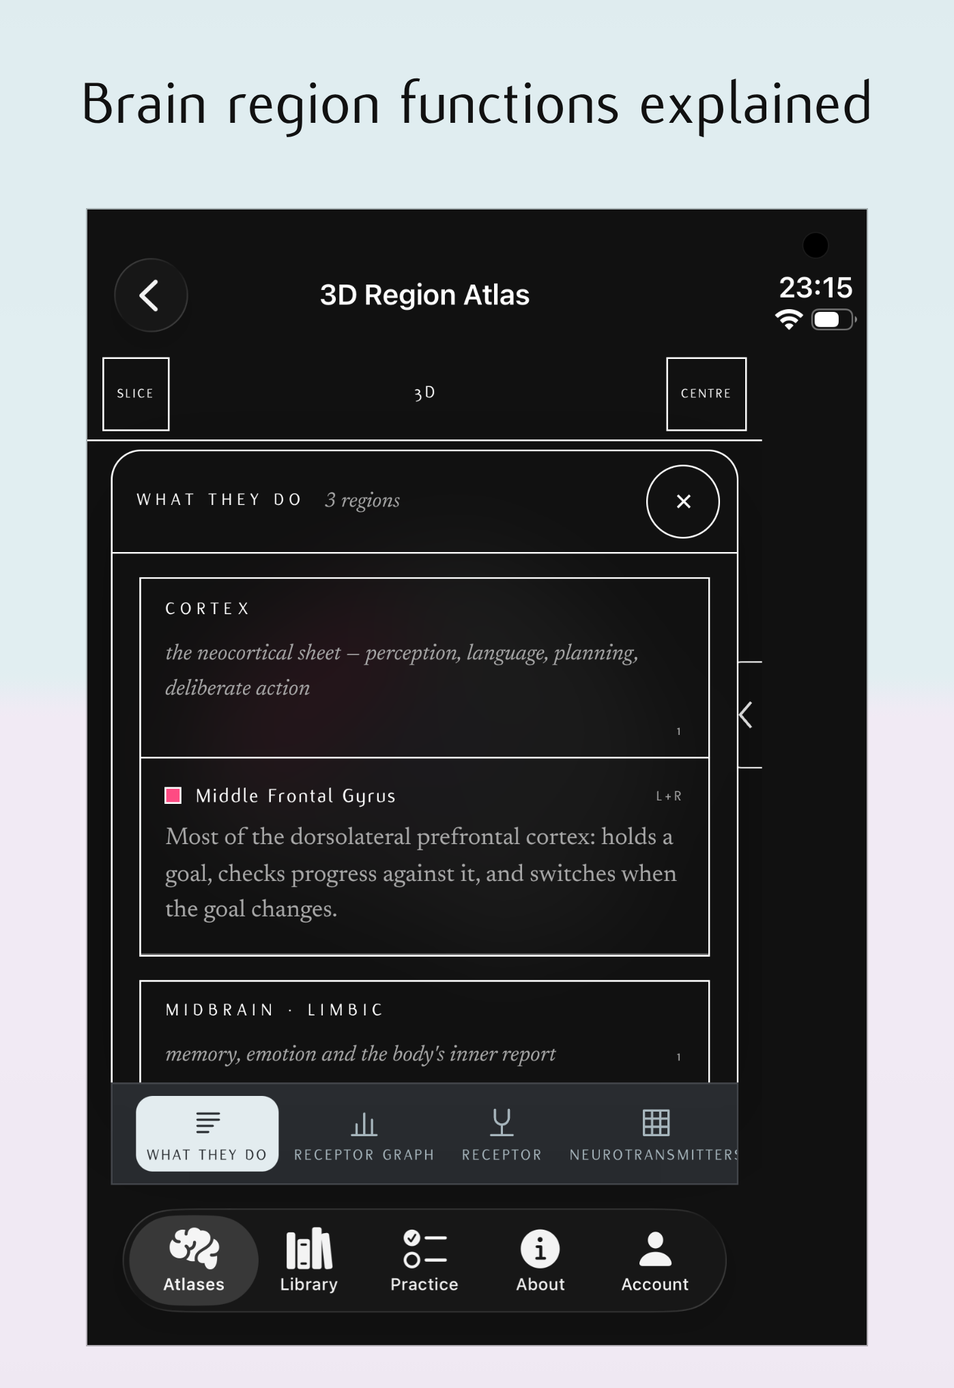
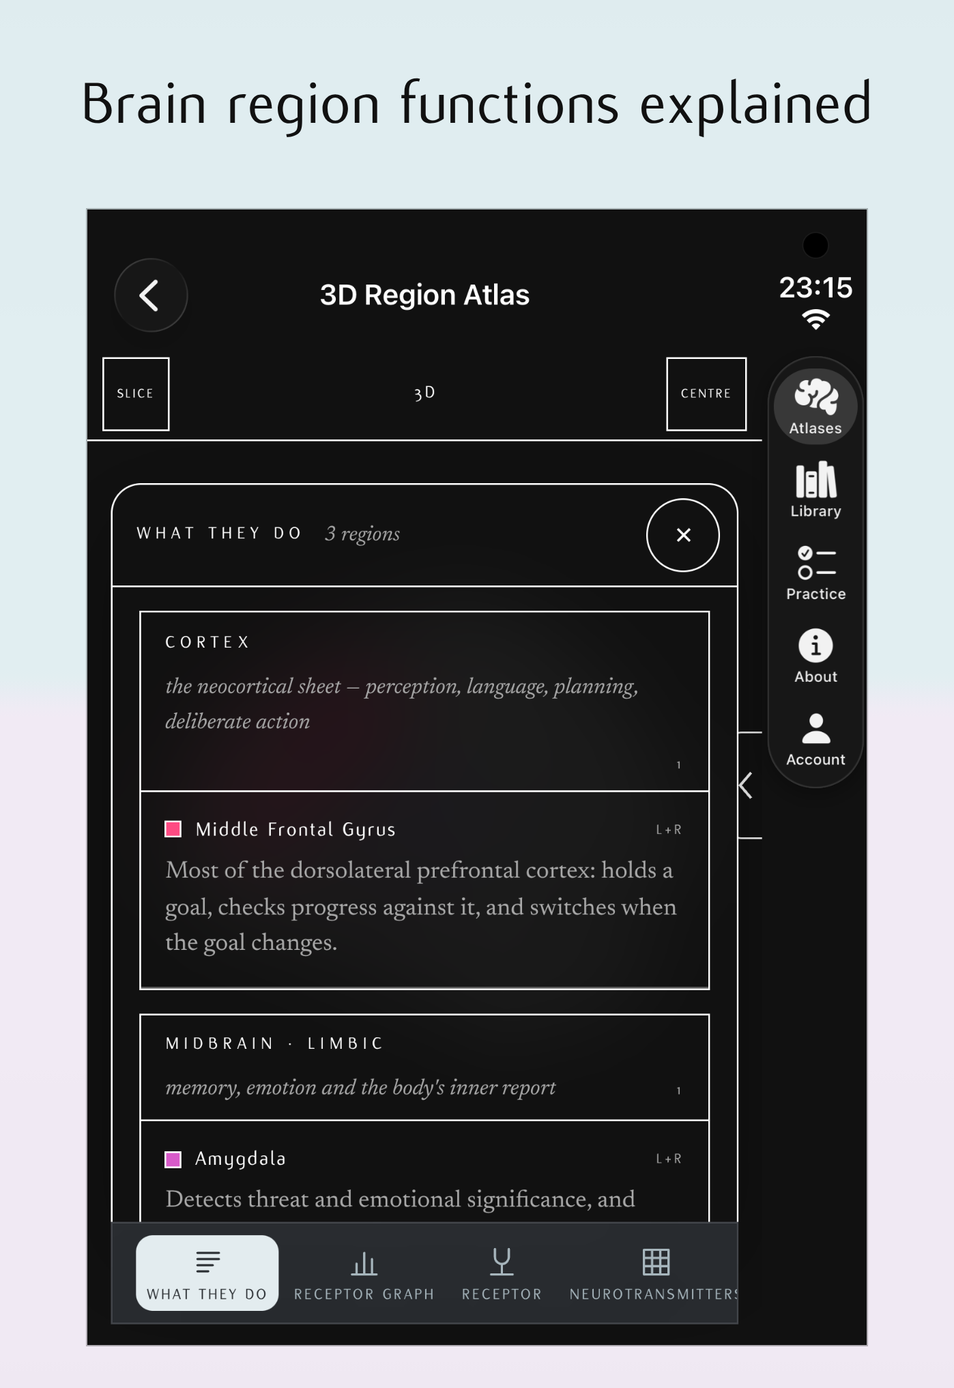
Stand the tabs in the Duo's side column in the store images, as Apple pictures the Duo
The iPhone Duo images now show the app as Apple's own pictures of the
Duo show apps built with the iOS 27.1 SDK: on both displays the column
down the right edge holds the camera, the time and the Wi-Fi, and under
them the five tabs stood on end, while the page's own bar keeps the foot
and has the whole height to itself. Closed, the iPhone's bar with Back
and the title stays at the top; open, the iPad's bar with Back alone.
The handover, the listing notes and the ledger say so.

Changed region(s): [[0.0923, 0.5575, 0.7997, 0.9602], [0.123, 0.3097, 0.769, 0.5265], [0.7997, 0.2168, 0.9227, 0.5575]]

diff --git a/app/scripts/remake-store-images.js b/app/scripts/remake-store-images.js
@@ -11,18 +11,19 @@
    sideways at 2853×2007 (open-01 to open-10), each rendered at the Duo's
    own web view, as the pages lay themselves out there (closed, one view at
    a time, the 3D Region Atlas its 3D view alone; open, as on an iPad),
-   under the app's bar and, closed, over its tab bar, with the status in a
-   column down the right edge, where Apple puts the Duo's (the app's content
-   stands to the left of the status bar and camera). Since v12.27, at the
-   owner's word, the bars are the iPhone's and the iPad's own, where they
-   always stand: closed, the iPhone's bar with Back at the top left and the
-   page's title, cut from the iPhone strips below their status rows, and the
-   iPhone's tab bar at the foot (duoTop(), the closed app area being the
-   iPhone's own width); open, the iPad's bar with Back at the left and the
-   island of tabs in the middle, cut from the iPad strips and set at the
-   Duo's scale. The column holds the camera and the status alone, drawn from
-   the iPhone captures' pieces (column()); no Duo capture exists yet, so
-   nothing here is a copy of one. The captures came from the owner's
+   under the app's bar, with a column down the right edge where Apple puts
+   the Duo's status bar and camera and, for an app built with the iOS 27.1
+   SDK, its tab bar and toolbars, stood on end below the status. Since
+   v12.29, at the owner's word and after Apple's own pictures of the Duo,
+   the column holds the camera, the time and the Wi-Fi, then the tab bar
+   stood on end, a capsule of the five tabs with the page's own lit
+   (column()), and the page has the whole height beneath the app's bar, its
+   own bar at the foot; the app's bar is the iPhone's closed, Back at the
+   top left and the page's title, cut from the iPhone strip below its status
+   rows, and the iPad's open, Back alone at the left, cut from the iPad strip
+   (duoTop()). Everything is drawn from the iPhone and iPad captures'
+   pieces; no Duo capture exists yet, so nothing here is a copy of one.
+   The captures came from the owner's
    devices, an 11-inch iPad sideways and an iPhone 16 Pro, on 23 October
    2026; since v12.10 they are remade here whenever the pages change, so
    the images keep up without a device: each page is rendered as the app
@@ -75,18 +76,18 @@ const only = process.argv.slice(2);
 /* the devices: the web view in CSS pixels, its scale, and where its rows
    sit in the capture. The iPhone Duo (v12.23) has no capture yet: closed,
    its outer display is 466 by 678 points, and the app has the 402 left of
-   the column down the right edge where the Duo stands the status bar and
-   the camera, under the iPhone's bar (83 points: a 20-point inset and the
-   bar's own row) and over its tab bar (83); open and sideways its inner
-   display is 951 by 669, the app the 887 left of the same column, laid out
-   as on an iPad under the iPad's bar (86). The column is drawn from the
-   iPhone's own pieces (column() below), the bars from the captures' strips
-   (duoTop()), and the screen's size is the page's own measure of a squat
-   phone */
+   the column down the right edge where the Duo stands the status bar, the
+   camera and the tab bar, under the iPhone's bar (83 points: a 20-point
+   inset and the bar's own row) and down to the foot; open and sideways its
+   inner display is 951 by 669, the app the 887 left of the same column,
+   laid out as on an iPad under the iPad's bar (86). The column is drawn
+   from the iPhone's own pieces (column() below), the bars from the
+   captures' strips (duoTop()), and the screen's size is the page's own
+   measure of a squat phone */
 const DEV = {
   ipad:    { w: 1210, h: 748, dpr: 2, pad: true,  top: 172, capture: [2420, 1668], families: ['ipad-13-land'] },
   iphone:  { w: 402,  h: 675, dpr: 3, pad: false, top: 348, bottom: 2373, capture: [1206, 2622], families: ['iphone-6.3', 'iphone-6.9'] },
-  duo:     { w: 402,  h: 512, dpr: 3, pad: false, screen: [466, 678], column: 'outer', top: 249, bottom: 1785, capture: [1398, 2034], families: ['iphone-duo'] },
+  duo:     { w: 402,  h: 595, dpr: 3, pad: false, screen: [466, 678], column: 'outer', top: 249, capture: [1398, 2034], families: ['iphone-duo'] },
   duoOpen: { w: 887,  h: 583, dpr: 3, pad: true,  screen: [951, 669], column: 'inner', top: 258, capture: [2853, 2007], families: ['iphone-duo-land'] },
 };
 
@@ -220,11 +221,11 @@ const SHOTS = [
 /* the iPhone Duo (v12.23): open, the iPad's ten at the inner display's size,
    the page laid out as on an iPad under the iPad's own bar (the strip the
    iPad shot names); closed, the iPhone's ten as the outer display shows
-   them, one view at a time, under the iPhone's bar and over its tab bar
-   (the strips the iPhone shot of the same picture names; the two capture
-   shots and the light one take the atlas's), the atlas's opening shot the
-   3D view with the three regions lit, and the last the Atlases page in
-   light mode, the light shot of the iPad's */
+   them, one view at a time, under the iPhone's bar (the strip the iPhone
+   shot of the same picture names; the two capture shots and the light one
+   take the atlas's), the tabs stood on end in the column, the atlas's
+   opening shot the 3D view with the three regions lit, and the last the
+   Atlases page in light mode, the light shot of the iPad's */
 const TAB = { '06-microanatomy.png': 'atlases', '07-molecular.png': 'atlases', '10-hallucinations.png': 'library', '08-practice.png': 'practice', '11-mcp.png': 'about' };
 for (const s of SHOTS.filter(x => x.dev === 'ipad'))
   SHOTS.push(Object.assign({}, s, { name: s.name.replace('ipad', 'open'), dev: 'duoOpen', tab: TAB[s.out] || 'atlases' }));
@@ -239,13 +240,10 @@ SHOTS.push(
   { name: 'duo-07', dev: 'duo', theme: 'dark', url: 'hallucinations.html', ready: hxReady, setup: click('.panelbar [data-pop="popCircuit"]', 1800), out: '10-hallucinations.png', statement: PHONE_SAID['10-hallucinations.png'] },
   { name: 'duo-08', dev: 'duo', theme: 'dark', url: 'practice.html', ready: pageReady, setup: question('A central ethical advantage of iPSCs'), out: '08-practice.png', statement: PHONE_SAID['08-practice.png'] },
   { name: 'duo-09', dev: 'duo', theme: 'light', url: 'regions.html#sel=' + enc(SEL_PH), ready: atlasReady, out: '02-atlas-light.png', statement: 'Light mode' },
-  { name: 'duo-10', dev: 'duo', theme: 'dark', url: 'mcp.html', ready: pageReady, fade: 30, out: '11-mcp.png', statement: PHONE_SAID['11-mcp.png'] },
+  { name: 'duo-10', dev: 'duo', theme: 'dark', url: 'mcp.html', ready: pageReady, out: '11-mcp.png', statement: PHONE_SAID['11-mcp.png'] },
 );
 const PHONE = Object.fromEntries(SHOTS.filter(x => x.dev === 'iphone' && x.top).map(x => [x.out, x]));
-for (const s of SHOTS) if (s.dev === 'duo'){
-  const p = PHONE[s.out];
-  s.top = p ? p.top : 'iphone-top-dark-3d-region-atlas'; s.bottom = p ? p.bottom : 'iphone-bottom-dark-atlases';
-}
+for (const s of SHOTS) if (s.dev === 'duo') s.top = PHONE[s.out] ? PHONE[s.out].top : 'iphone-top-dark-3d-region-atlas';
 
 /* the page as the shell shows it */
 const shell = (o) => {
@@ -274,25 +272,38 @@ const blendFor = light => light ? 'filter:invert(1);mix-blend-mode:multiply' : '
 const glassFor = light => light ? 'background:rgba(255,255,255,.94);box-shadow:inset 0 0 0 1px rgba(0,0,0,.07),0 8px 34px rgba(0,0,0,.13)'
                                : 'background:#171717;box-shadow:inset 0 0 0 1px #383838,inset 0 0 0 2px #2F2F2F,inset 0 0 0 3px #262626,0 10px 40px rgba(0,0,0,.35)';
 
-/* the Duo's column down the right edge (v12.23), in the theme's paper: the
-   outer display's camera at its top and the status (the time, the Wi-Fi and
-   the battery), which Apple stands there on both displays; nothing else
-   since v12.27. The time and the status icons are cut from the owner's
-   iPhone captures and levelled to masks */
+/* the Duo's column down the right edge (v12.23), in the theme's paper, as
+   Apple pictures the Duo's on both displays: the camera at its top, the
+   status below it (the time and the Wi-Fi, as Apple's pictures show them)
+   and under them the tab bar stood on end, a capsule of the five tabs with
+   the page's own lit, where the iOS 27.1 SDK stands an app's tab bar
+   (v12.29, at the owner's word; v12.27 had kept the tabs at the foot). The
+   time, the Wi-Fi and the tabs' icons and names are cut from the owner's
+   iPhone captures and levelled to masks, light on black, so they sit on
+   any ground (screened on the dark, inverted and multiplied on the light);
+   the glass is drawn as the captures show it, the dark in the capsule's
+   grey with its three-step rim */
+const TABS = ['atlases', 'library', 'practice', 'about', 'account'], TAB_X = { atlases: 190, library: 396, practice: 602, about: 810, account: 1015 };
 function column(d, shot, work){
   const x0 = d.w * d.dpr, [W, H] = d.capture, cw = W - x0, light = shot.theme === 'light';
   const top = path.join(CHROME, 'iphone-top-dark-3d-region-atlas.png');
   /* the pieces: [box in the strip, the ground's share of white] */
-  const time = cut(work, top, '129x38+131+79', 'time', 7), wifi = cut(work, top, '51x37+945+79', 'wifi', 7), battery = cut(work, top, '82x39+1018+78', 'battery', 7);
-  const blend = blendFor(light), paper = light ? '#FFFFFF' : '#111111';
+  const time = cut(work, top, '129x38+131+79', 'time', 7), wifi = cut(work, top, '51x37+945+79', 'wifi', 7);
+  /* each tab unlit: Atlases from the capture with Library lit, the rest from the one with Atlases lit; the
+     window keeps clear of the capsule's round ends and of the lit tab's pill */
+  const item = n => cut(work, path.join(CHROME, n === 'atlases' ? 'iphone-bottom-dark-library.png' : 'iphone-bottom-dark-atlases.png'), '140x156+' + (TAB_X[n] - 70) + '+14', 'tab-' + n, 9.5);
+  const blend = blendFor(light), paper = light ? '#FFFFFF' : '#111111', glass = glassFor(light);
   const at = (l, tp, w, h, extra) => `position:absolute;left:${px(x0 + l)};top:${px(tp)};width:${px(w)};height:${px(h)};${extra || ''}`;
   const mid = w => Math.round((cw - w) / 2);
-  const outer = d.column === 'outer', y = outer ? { time: 120, icons: 178 } : { time: 40, icons: 98 };
   const L = [`<div style="${at(0, 0, cw, H, 'background:' + paper)}"></div>`];
-  if (outer) L.push(`<div style="${at(mid(44), 42, 44, 44, 'border-radius:50%;background:#000;box-shadow:0 0 0 2px ' + (light ? '#D8D8D8' : '#1C1C1C'))}"></div>`);
-  L.push(`<img src="${time}" style="${at(mid(129), y.time, 129, 38, blend)}">`);
-  L.push(`<img src="${wifi}" style="${at(mid(147), y.icons, 51, 37, blend)}">`);
-  L.push(`<img src="${battery}" style="${at(mid(147) + 65, y.icons - 1, 82, 39, blend)}">`);
+  L.push(`<div style="${at(mid(44), 42, 44, 44, 'border-radius:50%;background:#000;box-shadow:0 0 0 2px ' + (light ? '#D8D8D8' : '#1C1C1C'))}"></div>`);
+  L.push(`<img src="${time}" style="${at(mid(129), 120, 129, 38, blend)}">`);
+  L.push(`<img src="${wifi}" style="${at(mid(51), 178, 51, 37, blend)}">`);
+  const capW = 172, cell = 148, pad = 16, capH = cell * TABS.length + 2 * pad, capTop = 262;
+  L.push(`<div style="${at(mid(capW), capTop, capW, capH, 'border-radius:' + px(capW / 2) + ';' + glass)}"></div>`);
+  const lit = TABS.indexOf(shot.tab || 'atlases');
+  L.push(`<div style="${at(mid(150), capTop + pad + lit * cell + (cell - 136) / 2, 150, 136, 'border-radius:68px;background:' + (light ? '#EBEBEB' : '#383838'))}"></div>`);
+  TABS.forEach((n, i) => L.push(`<img src="${item(n)}" style="${at(mid(123), capTop + pad + i * cell + (cell - 137) / 2, 123, 137, blend)}">`));
   return L;
 }
 
@@ -304,9 +315,10 @@ function column(d, shot, work){
    page shows, is drawn from the dark one's pieces as masks on white, with
    the glass circle as the captures show it. Open, the iPad's: the strip's
    own ground (its one blank column stretched across, so the bar keeps the
-   capture's shading), Back at the left and the island of tabs in the middle
-   of the app's width, each cut from the iPad strip the shot names and set
-   at the Duo's scale, three halves of the iPad's two */
+   capture's shading) and Back at the left, cut from the iPad strip the shot
+   names and set at the Duo's scale, three halves of the iPad's two; the
+   island of tabs is not here since v12.29, the tabs standing in the column
+   on both displays */
 const TITLE = { 'iphone-top-dark-3d-region-atlas': '373x49+417+230' };
 function duoTop(d, shot, work){
   const aw = d.w * d.dpr, light = shot.theme === 'light', strip = path.join(CHROME, shot.top + '.png');
@@ -327,35 +339,11 @@ function duoTop(d, shot, work){
     const k = 1.5;
     /* the column at 520 stands between the status text and the island in every strip, where nothing is drawn */
     L.push(`<img src="${cut(work, strip, '1x172+520+0', 'ground-' + shot.top)}" style="${at(0, 0, aw, d.top)}">`);
-    /* each piece's window reaches out to where the glass's shadow has faded into the ground, so no edge shows:
-       Back's below the status text, the island's the whole height, between the status text and its icons */
+    /* Back's window reaches out, below the status text, to where the glass's shadow has faded into the ground, and
+       its top edge is softened, so no edge shows; the island is not here, the tabs standing in the column */
     const soft = 'mask-image:linear-gradient(rgba(0,0,0,0),#000 36px);-webkit-mask-image:linear-gradient(rgba(0,0,0,0),#000 36px)';
     L.push(`<img src="${cut(work, strip, '260x128+0+44', 'back-' + shot.top)}" style="${at(0, Math.round(44 * k), 260 * k, 128 * k, soft)}">`);
-    L.push(`<img src="${cut(work, strip, '1140x172+600+0', 'island-' + shot.top)}" style="${at(Math.round((aw - 1140 * k) / 2), 0, 1140 * k, 172 * k)}">`);
   }
-  return L;
-}
-
-/* the iPhone's tab bar in the light theme, for the closed Duo's light shot:
-   no light capture of a pushed page exists, and the light capture of the
-   Atlases tab shows that page through the bar's glass, so the bar is drawn
-   as the dark strips measure it, on white: the capsule (1080 by 186 from
-   63, its rim as the captures show it), the lit tab's pill (234 by 162
-   about the tab's centre) and the five tabs' icons and names as masks cut
-   from the dark strips, inverted (each tab unlit: Atlases from the strip
-   with Library lit, the rest from the one with Atlases lit) */
-const TABS = ['atlases', 'library', 'practice', 'about', 'account'], TAB_X = { atlases: 190, library: 396, practice: 602, about: 810, account: 1015 };
-function tabsLight(d, shot, work){
-  const blend = blendFor(true);
-  const at = (l, tp, w, h, extra) => `position:absolute;left:${px(l)};top:${px(d.bottom + tp)};width:${px(w)};height:${px(h)};${extra || ''}`;
-  const L = [`<div style="${at(0, 0, 1206, 249, 'background:#FFFFFF')}"></div>`];
-  L.push(`<div style="${at(63, 0, 1080, 186, 'border-radius:93px;' + glassFor(true))}"></div>`);
-  const lit = TAB_X[shot.tab || 'atlases'];
-  L.push(`<div style="${at(lit - 117, 11, 234, 162, 'border-radius:81px;background:#EBEBEB')}"></div>`);
-  TABS.forEach(n => {
-    const strip = path.join(CHROME, n === 'atlases' ? 'iphone-bottom-dark-library.png' : 'iphone-bottom-dark-atlases.png');
-    L.push(`<img src="${cut(work, strip, '140x156+' + (TAB_X[n] - 70) + '+14', 'tab-' + n, 9.5)}" style="${at(TAB_X[n] - 70, 14, 140, 156, blend)}">`);
-  });
   return L;
 }
 
@@ -366,12 +354,6 @@ async function join(browser, shot, renderPath, outPath, work){
   if (d.column){
     layers.push(...duoTop(d, shot, work));
     layers.push(`<img src="${dataUrl(renderPath)}" style="left:0;top:${px(d.top)}">`);
-    if (shot.fade) layers.push(`<div style="position:absolute;left:0;top:${px(d.bottom - shot.fade * d.dpr)};width:${px(d.w * d.dpr)};height:${px(shot.fade * d.dpr)};background:linear-gradient(rgba(17,17,17,0),#111111 60%)"></div>`);
-    /* closed, the iPhone's tab bar at the foot: the strip the shot names, or drawn in the light theme */
-    if (d.bottom){
-      if (shot.theme === 'light') layers.push(...tabsLight(d, shot, work));
-      else layers.push(`<img src="${dataUrl(path.join(CHROME, shot.bottom + '.png'))}" style="left:0;top:${px(d.bottom)}">`);
-    }
     layers.push(...column(d, shot, work));
   } else if (shot.capture){
     layers.push(`<img src="${dataUrl(path.join(CHROME, shot.capture + '.png'))}" style="left:0;top:0">`);

diff --git a/CLAUDE.md b/CLAUDE.md
@@ -549,15 +549,14 @@ Read this first in every session. It is the handover; nothing else needs pasting
   view buttons hidden too (`.screen.one.short .panelbar-views` in `regions.html`; v12.27, at the owner's word: the
   screen is too short for the flat slices). Everything else is the phone's: the bar at the foot, the drawer, the
   sheets, the Brodmann Area Atlas and the molecular viewer as on any iPhone upright, and the shell's bars where iOS
-  puts them, Back at the top left and the tabs at the foot, the Duo keeping only its status bar and camera in a column
-  down the right edge, which Apple's Duo page describes (v12.23 to v12.26 stood the page's bar down the right edge
-  beside it, one bar too many). `oneView` runs on every resize on those three pages, since the Duo's screen changes
-  under a page as it opens and closes while neither media query need change, and acts only when the layout does
-  (`laid`); Tractography and Microanatomy, with one view, read nothing from the screen. Open, the Duo is an iPad (the
-  shell above): upright its inner display is 669 wide, an iPad mini's layout (`.one`, the four views two by two), and
-  sideways 887, the iPad's, the page's bar at the foot and, in the store images, the iPad's bar of Back and the tabs
-  across the top; where iOS itself puts the tab bar on the open Duo is iOS's to decide, and a build with the iOS 27.1
-  SDK would stand it down the side under the status.
+  puts them (v12.23 to v12.26 stood the page's bar down the right edge, one bar too many). The Duo itself keeps its
+  status bar and camera in a column down the right edge of both displays, and an app built with the iOS 27.1 SDK gets
+  its tab bar and toolbars stood on end there, below the status, as Apple's Duo page and pictures show; a build with
+  Xcode 26 is shown inset open and gets the iPhone's bars closed. `oneView` runs on every resize on those three pages,
+  since the Duo's screen changes under a page as it opens and closes while neither media query need change, and acts
+  only when the layout does (`laid`); Tractography and Microanatomy, with one view, read nothing from the screen.
+  Open, the Duo is an iPad (the shell above): upright its inner display is 669 wide, an iPad mini's layout (`.one`,
+  the four views two by two), and sideways 887, the iPad's, the page's bar at the foot.
 - The interface follows Apple's fluid-interface guidance (v10.92): controls answer on the press (`viewer.css`, the
   last section), the account box and both section menus arrive from their button and leave the same way, the bars
   and menus are translucent materials with `prefers-reduced-transparency` and `prefers-contrast` fallbacks, a thrown
@@ -614,16 +613,16 @@ Read this first in every session. It is the handover; nothing else needs pasting
   optional, to replace 1.0's in that slot, and since v12.23 the iPhone Duo's own two (v12.20 set the iPad renders in
   the inner size): `iphone-duo-` at 1398×2034, the outer display closed (`duo-01`…`duo-10`), and `iphone-duo-land-` at
   2853×2007, the inner display open and sideways (`open-01`…`open-10`; `store-sell.js`'s `SHARE`, the capture at 84% of
-  the width), each rendered at the Duo's web view (402×512 closed and 887×583 open, at 3×, the screen's size given so
-  the page knows the squat phone) under the app's bar and, closed, over its tab bar, with the status in a column down
-  the right edge, where Apple's Duo page stands it (since v12.27, at the owner's word; v12.23 had stood Back and the
-  tabs in that column too): closed, the iPhone's bar with Back and the page's title, the strip the iPhone shot of the
-  same picture names cut below its status rows under a 20-point inset, and the iPhone's tab bar at the foot, the app's
-  area being the iPhone's own width (the light shot's bar is drawn from the dark strip's pieces as masks, its tab bar
-  the foot of the light capture); open, the iPad's bar, Back at the left and the island of tabs in the middle, cut
-  from the iPad strip the shot names and set at three halves (`duoTop()`); the column holds the camera when closed,
-  the time, Wi-Fi and battery, drawn from the iPhone captures' pieces (`column()`), since no Duo capture exists;
-  `store-sell.js` covers no status bar on them (`BAR`);
+  the width), each rendered at the Duo's web view (402×595 closed and 887×583 open, at 3×, the screen's size given so
+  the page knows the squat phone) under the app's bar, with a column down the right edge as Apple pictures the Duo's
+  (since v12.29, at the owner's word, after Apple's own pictures; v12.27 had put the tabs at the foot and the island
+  across the top): the camera, the time and the Wi-Fi, then the tab bar stood on end, a capsule of the five tabs with
+  the page's own lit, drawn from the iPhone captures' pieces as masks on the theme's paper (`column()`); the page has
+  the whole height under the app's bar, its own bar at the foot; closed, the app's bar is the iPhone's with Back and
+  the page's title, the strip the iPhone shot of the same picture names cut below its status rows under a 20-point
+  inset, the app's area being the iPhone's own width (the light shot's bar is drawn from the dark strip's pieces as
+  masks); open, the iPad's with Back alone at the left, cut from the iPad strip the shot names and set at three halves
+  (`duoTop()`); no Duo capture exists; `store-sell.js` covers no status bar on them (`BAR`);
   the second shot's statement is Brain region functions explained (`openPop` waits
   for a raised sheet to come to rest, which at 3× with software 3D takes longer than the slide); since v12.21 the
   iPhone's first two are the owner's own captures from the TestFlight build of 25 October 2026, taken whole

diff --git a/app/store/LISTING.md b/app/store/LISTING.md
@@ -163,14 +163,15 @@ Store's images are the fifty in `app/store/sell/` below: ten shots, each
 for the iPad at 2752×2064, for the iPhone at two sizes, and since v12.23
 for the iPhone Duo's two displays: closed, the outer display at 1398×2034
 (`iphone-duo-`), the pages as they lay themselves out there, one view at a
-time, the 3D Region Atlas its 3D view alone, under the iPhone's bar and over
-its tab bar; open and sideways, the inner display at 2853×2007
+time, the 3D Region Atlas its 3D view alone, under the iPhone's bar of Back
+and the title; open and sideways, the inner display at 2853×2007
 (`iphone-duo-land-`), the pages laid out as on an iPad under the iPad's bar
-of Back and the tabs. No Duo capture exists yet, so each is rendered at the
-Duo's own web view with the status (and, closed, the camera) in a column
-down the right edge, where Apple's Duo page stands it, the bars and the
-column drawn from the iPhone and iPad captures' own pieces (v12.27; v12.23
-had stood Back and the tab bar in that column too). Submitting Duo screenshots puts a badge on the product
+with Back. On both, as Apple pictures the Duo, a column down the right edge
+holds the camera, the time and the Wi-Fi and then the tab bar stood on end,
+where the iOS 27.1 SDK stands an app's tab bar, and the page's own bar is at
+the foot (v12.29; v12.27 had the tabs at the foot). No Duo capture exists
+yet, so the bars and the column are drawn from the iPhone and iPad
+captures' own pieces. Submitting Duo screenshots puts a badge on the product
 page saying the app is optimized for iPhone Duo; the pages now lay
 themselves out for both of its displays, but the app has not been tried on
 a Duo, and only a build made with the iOS 27.1 SDK (Xcode 27.1 or later)

diff --git a/docs/RELEASES.md b/docs/RELEASES.md
@@ -11,8 +11,13 @@ text below. Both can also be run from a clone on a machine that can push.
 
 Versions before v8.6 were released without a ledger and are not recorded.
 
+## v12.29 — 25 October 2026 — The Duo's tabs down the side
+Commit · Stand the tabs in the Duo's side column in the store images, as Apple pictures the Duo
+
+The App Store images of the iPhone Duo now show the app as Apple's own pictures show the Duo: on both displays a column down the right edge holds the camera, the time and the Wi-Fi, and under them the app's five tabs stood on end, with the page's own bar of tools at the foot and the whole height to itself. Closed, the app's bar with Back and the page's title stays at the top; open, the iPad's bar with Back. Nothing on the website or in the app changes.
+
 ## v12.28 — 25 October 2026 — The next app version is 2.0
-Commit · Number the next app version 2.0 in place of 1.1
+Commit `130ea09` · Number the next app version 2.0 in place of 1.1
 
 The next version of the app is numbered 2.0 rather than 1.1, at the owner's word: the iOS project, the Android project and the store notes all say so, so the build Xcode Cloud makes next carries 2.0 and matches the version page in App Store Connect. Nothing on the website changes.
 
